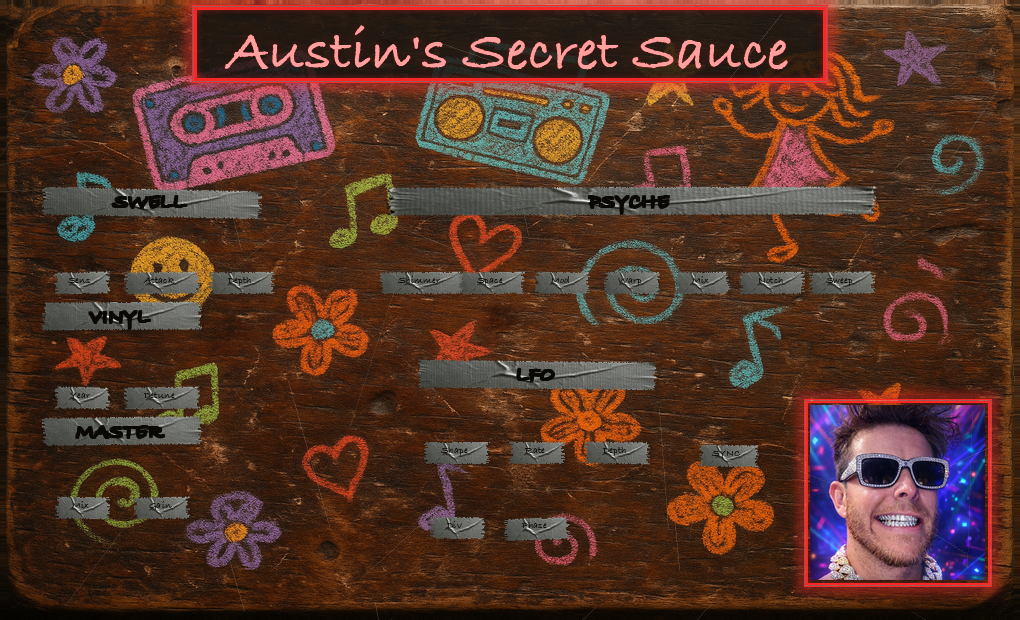
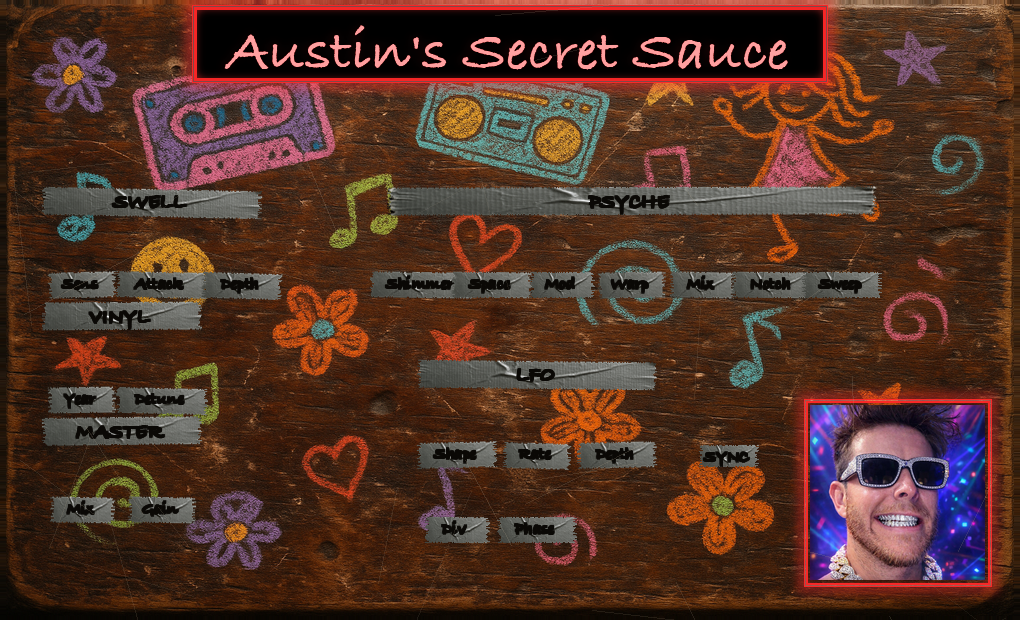
v4.9: Opaque title bg, bigger labels, shifted LEDs
- Title background: pure black, zero transparency
- Knob labels: 16pt bold sharpie (was 12pt thin)
- Wider tape strips for bigger text
- All bypass LEDs shifted right
- Psyche bypass LED shifted right significantly
- LFO bypass LED shifted up and right significantly
- Visible knob rotation pointers (white line + dot)

diff --git a/src/PluginEditor.cpp b/src/PluginEditor.cpp
@@ -283,11 +283,11 @@ void AetherEditor::resized()
     swellDepth.setBounds (240 - K/2, 240 - K/2, K, K);
     // Bypass LEDs: 24x24, next to section header tapes
     int ledS = 24;
-    swellBypass.setBounds(270 - ledS/2, 195, ledS, ledS);  // right of SWELL header
+    swellBypass.setBounds(290 - ledS/2, 195, ledS, ledS);  // shifted right
 
     vinylYear.setBounds  (80  - K/2, 355 - K/2, K, K);
     vinylDetune.setBounds(160 - K/2, 355 - K/2, K, K);
-    vinylBypass.setBounds(190 - ledS/2, 310, ledS, ledS);  // right of VINYL header
+    vinylBypass.setBounds(220 - ledS/2, 310, ledS, ledS);  // shifted right
 
     masterMix.setBounds (80  - K/2, 465 - K/2, K, K);
     masterGain.setBounds(160 - K/2, 465 - K/2, K, K);
@@ -302,15 +302,15 @@ void AetherEditor::resized()
     psycheMix.setBounds    (psycheStart + psycheGap*4  - K/2, 240 - K/2, K, K);
     psycheNotches.setBounds(psycheStart + psycheGap*5  - K/2, 240 - K/2, K, K);
     psycheSweep.setBounds  (psycheStart + psycheGap*6  - K/2, 240 - K/2, K, K);
-    psycheBypass.setBounds(psycheStart + psycheGap*6 + K/2 + 8, 195, ledS, ledS);  // right of last psyche knob area
+    psycheBypass.setBounds(psycheStart + psycheGap*6 + K/2 + 40, 195, ledS, ledS);  // shifted right A LOT
 
     lfoShape.setBounds(455 - K/2, 410 - K/2, K, K);
     lfoRate.setBounds (535 - K/2, 410 - K/2, K, K);
     lfoDepth.setBounds(615 - K/2, 410 - K/2, K, K);
     lfoSyncRate.setBounds    (455 - K/2, 485 - K/2, K, K);
     lfoPhaseOffset.setBounds (535 - K/2, 485 - K/2, K, K);
-    lfoSync.setBounds(620, 470, 18, 18);
-    lfoBypass.setBounds(648, 368, ledS, ledS);  // right of LFO area
+    lfoSync.setBounds(680, 470, 18, 18);
+    lfoBypass.setBounds(700, 348, ledS, ledS);  // shifted up + right A LOT
 }
 
 // ================================================================
